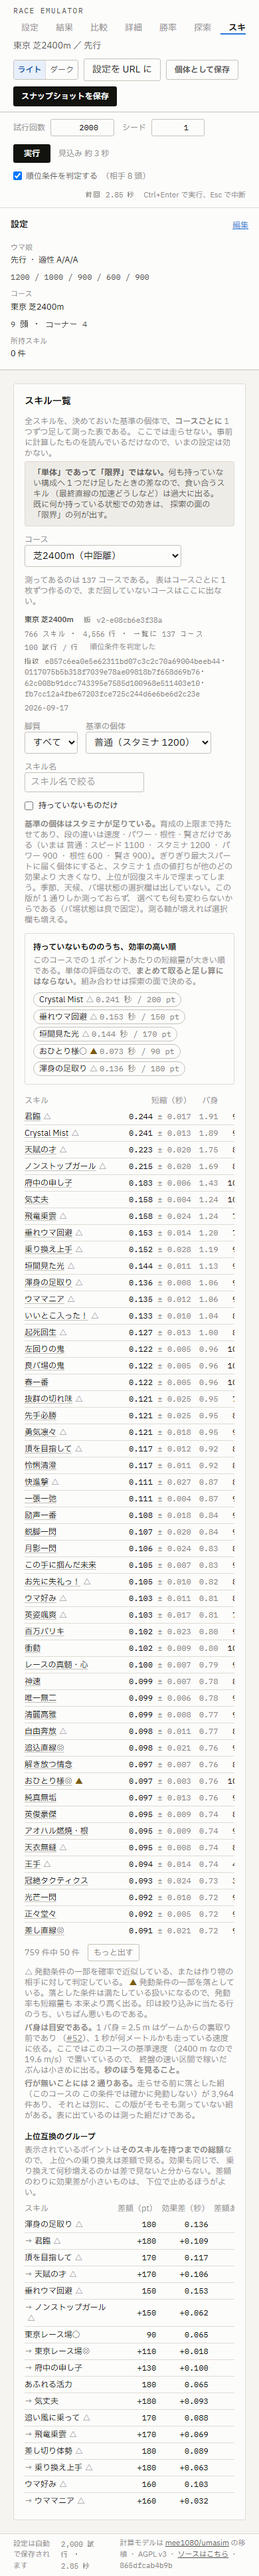
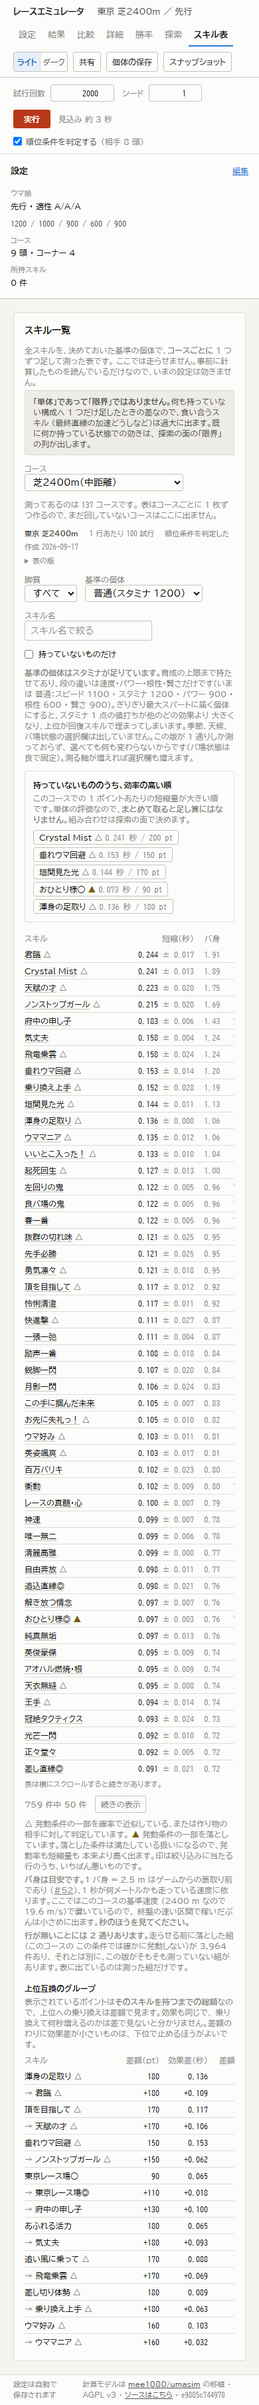
fix: 幅 390px のヘッダ・実行バー・表を詰め、設定の群を畳めるようにする
#104 の対応。

- ヘッダを 3 段に組む（題字といまの条件／タブ／テーマとボタン）。狭い幅では
  ボタンを短い名前にし、タブの余白を詰めて 7 つを収める。172px → 117px。
  読み上げは常に正式な名前にする（aria-label）
- 実行バーのキー操作の案内を、狭い幅では出さない。116px → 87px
- 横にスクロールする表は、実際にはみ出しているときだけ「表は横にスクロールすると
  続きがあります。」と書く（結果の面とスキル表）。影やグラデーションは使わない
- 「実行オプション」と「相手の想定」を畳めるようにする。狭い幅では畳んで、
  広い幅では開いて始める（docs/ui-gap.md 8 節「群の畳み込み」）
- 共有ボタンの大きさを、ヘッダのほかのボタンにそろえる
- e2e が撮り直した狭い幅の画像 2 枚を差し替える

Closes #104

diff --git a/apps/web/src/components/Inputs.tsx b/apps/web/src/components/Inputs.tsx
@@ -1,4 +1,4 @@
-import { useMemo, useState } from 'react';
+import { useEffect, useMemo, useRef, useState } from 'react';
 import { FIT_RANKS, type Condition, type FitRank, type Style } from '../../../../packages/sim/src/data/constants.ts';
 import { getSlope, type TrackDetail } from '../../../../packages/sim/src/data/track.ts';
 import {
@@ -176,15 +176,79 @@ export function CancelButton({ className = 'text-sm' }: { className?: string }) 
   );
 }
 
+/**
+ * 横にスクロールする表の入れ物。はみ出しているときだけ、その旨を下に書く。
+ *
+ * 狭い幅では表の右側が切れて見え、続きがあることが分からなかった（#104、UI 診断 第3節 B-5）。
+ * 影やグラデーションで示す手もあるが、禁止リストが影を控えるよう求めているので文字で書く。
+ */
+export function HorizontalScroll({ className = '', children }: { className?: string; children: React.ReactNode }) {
+  const ref = useRef<HTMLDivElement>(null);
+  const [overflowing, setOverflowing] = useState(false);
+  useEffect(() => {
+    const element = ref.current;
+    if (element === null) return;
+    const check = () => setOverflowing(element.scrollWidth > element.clientWidth + 1);
+    check();
+    const observer = new ResizeObserver(check);
+    observer.observe(element);
+    return () => observer.disconnect();
+  }, []);
+  return (
+    <>
+      <div ref={ref} className={`overflow-x-auto ${className}`}>
+        {children}
+      </div>
+      {overflowing && <p className="mt-1 text-[11px] text-ink3">表は横にスクロールすると続きがあります。</p>}
+    </>
+  );
+}
+
 export function Panel({
   title,
   variant = 'card',
+  collapsible = false,
+  summary,
   children,
 }: {
   title: string;
   variant?: 'card' | 'plain';
+  /**
+   * 見出しを押して畳めるようにする（線の区切りのときだけ）。広い幅では開いて、
+   * 狭い幅では畳んで始める。狭い幅で設定の群を全部開いたまま積むと、下の群に
+   * たどり着くまでが長い（#104、docs/ui-gap.md 8 節「群の畳み込み」）。
+   */
+  collapsible?: boolean;
+  /** 畳んだときも見出しの右に出す要約 */
+  summary?: React.ReactNode;
   children: React.ReactNode;
 }) {
+  const [initiallyOpen] = useState(
+    () => typeof window === 'undefined' || window.matchMedia('(min-width: 768px)').matches,
+  );
+  if (variant === 'plain' && collapsible) {
+    return (
+      <details className="group flex flex-col" open={initiallyOpen}>
+        <summary className="flex h-[34px] cursor-pointer list-none items-center gap-1.5 border-b border-rule [&::-webkit-details-marker]:hidden">
+          <svg
+            width="12"
+            height="12"
+            viewBox="0 0 16 16"
+            fill="none"
+            stroke="currentColor"
+            strokeWidth="1.6"
+            className="flex-none text-ink2 group-open:rotate-90"
+            aria-hidden="true"
+          >
+            <path d="M6.5 4 10.5 8 6.5 12" />
+          </svg>
+          <h2 className="text-[13px] font-bold">{title}</h2>
+          {summary !== undefined && <span className="ml-auto text-[11px] text-ink3">{summary}</span>}
+        </summary>
+        <div className="flex flex-col gap-2.5 pt-2.5">{children}</div>
+      </details>
+    );
+  }
   if (variant === 'plain') {
     return (
       <section className="flex flex-col gap-2.5">
@@ -707,7 +771,7 @@ export function OptionsInput() {
   const debuffTotal = Object.values(debuffCounts).reduce((a, b) => a + b, 0);
 
   return (
-    <Panel title="実行オプション" variant="plain">
+    <Panel title="実行オプション" variant="plain" collapsible summary={`デバフ ${debuffTotal} 個`}>
       <div className="grid grid-cols-1 gap-3 sm:grid-cols-2">
         <Field label="スキル発動率">
           <select
@@ -817,7 +881,7 @@ export function OpponentInput() {
   ];
 
   return (
-    <Panel title="相手の想定" variant="plain">
+    <Panel title="相手の想定" variant="plain" collapsible>
       {!useField && (
         <p className="text-xs text-ink3">
           順位条件を判定していないので、ここの設定は結果に効きません。実行バーの
@@ -956,7 +1020,8 @@ export function RunPanel() {
         順位条件を判定する
         <span className="text-ink3">（相手 {gateCount - 1} 頭）</span>
       </label>
-      <span className="ml-auto text-[11px] text-ink3">
+      {/* キー操作の案内は、キーボードの無い狭い幅では出さない（#104） */}
+      <span className="ml-auto hidden text-[11px] text-ink3 md:inline">
         {/* 前回の所要時間は結果の見出しにある。ここでは実行前の見込みだけを出す */}
         Ctrl+Enter で実行、Esc で中断
       </span>

diff --git a/apps/web/src/components/Shell.tsx b/apps/web/src/components/Shell.tsx
@@ -57,7 +57,7 @@ function ThemeToggle() {
           type="button"
           aria-pressed={theme === value}
           onClick={() => setTheme(value)}
-          className={`flex w-12 items-center justify-center border-r border-rule text-xs last:border-r-0 ${
+          className={`flex w-10 items-center justify-center border-r border-rule text-xs last:border-r-0 md:w-12 ${
             theme === value ? 'bg-acc-tint font-bold text-acc-ink' : 'bg-surface text-ink2'
           }`}
         >
@@ -82,11 +82,13 @@ function SaveSnapshotButton() {
     <button
       type="button"
       // 朱は計算を走らせるボタンだけに使う（DESIGN.md 3 節）。ヘッダの保存は脇の操作なので線の枠にする
-      className="h-[30px] rounded-sm border border-rule2 px-3 text-xs font-bold text-ink2 disabled:opacity-40"
+      aria-label="スナップショットを保存"
+      className="h-[30px] rounded-sm border border-rule2 px-2 text-xs font-bold text-ink2 disabled:opacity-40 md:px-3"
       onClick={saveSnapshot}
       disabled={summary === null}
     >
-      スナップショットを保存
+      <span className="md:hidden">スナップショット</span>
+      <span className="hidden md:inline">スナップショットを保存</span>
     </button>
   );
 }
@@ -133,18 +135,30 @@ function SaveIndividualButton() {
     <div className="flex items-center gap-2">
       <button
         type="button"
-        className="h-[30px] rounded-sm border border-rule2 px-3 text-xs font-bold text-ink2 disabled:opacity-40"
+        aria-label="個体として保存"
+        className="h-[30px] rounded-sm border border-rule2 px-2 text-xs font-bold text-ink2 disabled:opacity-40 md:px-3"
         onClick={() => void save()}
         disabled={saving}
       >
-        {saving ? '保存中…' : '個体として保存'}
+        {saving ? (
+          '保存中…'
+        ) : (
+          <>
+            <span className="md:hidden">個体の保存</span>
+            <span className="hidden md:inline">個体として保存</span>
+          </>
+        )}
       </button>
       {message !== null && <span className="text-[11px] text-ink3">{message}</span>}
     </div>
   );
 }
 
-/** モックは 1440px しか描いていない。狭い幅では折り返して縦に伸ばす。 */
+/**
+ * モックは 1440px しか描いていない。狭い幅では 3 段に組む（#104）。
+ * 1 段目に題字といまの条件、2 段目にタブ、3 段目にテーマとボタン。
+ * 以前は 4〜5 段に折り返して 172px あり、タブも右端で切れていた。
+ */
 export function Header() {
   const tab = useStore((s) => s.tab);
   const setTab = useStore((s) => s.setTab);
@@ -158,15 +172,18 @@ export function Header() {
         字間で組んでいた（docs/ui-audit-race-emulator.md 第1節「等幅」「欧文スタイル」）。
       */}
       <h1 className="whitespace-nowrap text-[13px] font-bold text-ink">レースエミュレータ</h1>
-      {/* タブが増えると狭い幅では収まらないので、はみ出すぶんは横に送る */}
-      <nav className="flex min-w-0 max-w-full gap-0.5 self-stretch overflow-x-auto" aria-label="画面">
+      {/* 狭い幅でも 7 つが収まるよう、左右の余白を詰める。それでも収まらない幅では横に送る */}
+      <nav
+        className="order-3 flex min-w-0 max-w-full basis-full gap-0.5 self-stretch overflow-x-auto md:order-none md:basis-auto"
+        aria-label="画面"
+      >
         {TABS.map(({ id, label }) => (
           <button
             key={id}
             type="button"
             aria-current={tab === id ? 'page' : undefined}
             onClick={() => setTab(id)}
-            className={`flex flex-none items-center px-3 text-[13px] ${
+            className={`flex h-[34px] flex-none items-center px-2 text-[13px] md:h-auto md:px-3 ${
               tab === id ? 'font-bold text-ink shadow-[inset_0_-2px_0_var(--color-s1)]' : 'text-ink3'
             }`}
           >
@@ -175,11 +192,11 @@ export function Header() {
         ))}
       </nav>
       {/* 狭い幅ではタブが折り返すので、この行も折り返せるようにしておく */}
-      <div className="flex min-w-0 flex-1 flex-wrap items-center gap-2">
+      <div className="order-2 flex min-w-0 flex-1 items-center gap-2 md:order-none">
         <span className="truncate text-[13px] text-ink2">{condition}</span>
         {summary === null && <span className="flex-none text-[11px] text-ink3">未実行</span>}
       </div>
-      <div className="flex flex-wrap items-center gap-2 md:flex-none md:flex-nowrap">
+      <div className="order-4 flex w-full items-center gap-2 md:order-none md:w-auto md:flex-none">
         <ThemeToggle />
         <ShareButton />
         <SaveIndividualButton />

diff --git a/apps/web/src/components/Summary.tsx b/apps/web/src/components/Summary.tsx
@@ -9,7 +9,7 @@ import {
 } from '../store.ts';
 import { TimeHistogram } from './Charts.tsx';
 import { FidelityLegend, FidelityMark } from './Fidelity.tsx';
-import { Panel } from './Inputs.tsx';
+import { HorizontalScroll, Panel } from './Inputs.tsx';
 
 function percent(value: number): string {
   return Number.isFinite(value) ? `${(value * 100).toFixed(1)} %` : '-';
@@ -244,7 +244,7 @@ export function SummaryOutput() {
               {bandRunning ? '測定中' : '相手の強さによる幅の測定'}
             </button>
           </div>
-          <div className="mt-2 overflow-x-auto">
+          <HorizontalScroll className="mt-2">
             <table data-testid="skill-table" className="w-full min-w-[36rem] text-sm">
               <thead>
                 <tr className="border-b border-rule text-xs text-ink3">
@@ -324,7 +324,7 @@ export function SummaryOutput() {
                 })}
               </tbody>
             </table>
-          </div>
+          </HorizontalScroll>
           {/* 印の意味。発動率をどこまで信じてよいかの話なので、表のすぐ下に置く。 */}
           <div className="mt-2">
             <FidelityLegend useField={useField} />

diff --git a/apps/web/src/components/SkillList.tsx b/apps/web/src/components/SkillList.tsx
@@ -28,7 +28,7 @@ import {
 } from '../skillList.ts';
 import { gameData, useStore } from '../store.ts';
 import { PlainFidelityMark } from './Fidelity.tsx';
-import { Panel } from './Inputs.tsx';
+import { HorizontalScroll, Panel } from './Inputs.tsx';
 
 /**
  * スキル一覧の面（[#83](https://github.com/promodeler314-a11y/raceemu/issues/83)）。
@@ -402,7 +402,7 @@ function SkillListTable({ file, index }: { file: SkillListCourseFile; index: Ski
 
       {recommended.length > 0 && <Recommend rows={recommended} onPick={addAndSolve} />}
 
-      <div className="mt-4 overflow-x-auto">
+      <HorizontalScroll className="mt-4">
         <table className="w-full min-w-[34rem] text-xs" data-testid="skill-list-table">
           <thead className="text-ink3">
             <tr>
@@ -472,7 +472,7 @@ function SkillListTable({ file, index }: { file: SkillListCourseFile; index: Ski
             ))}
           </tbody>
         </table>
-      </div>
+      </HorizontalScroll>
 
       <div className="mt-2 flex flex-wrap items-center gap-3 text-xs text-ink3">
         <span data-testid="skill-list-count">

diff --git a/apps/web/src/components/Compare.tsx b/apps/web/src/components/Compare.tsx
@@ -391,7 +391,9 @@ export function ShareButton() {
   return (
     <button
       type="button"
-      className="rounded-sm border border-rule2 px-3 py-1.5 text-sm"
+      // 狭い幅では短い名前にする（#104）。読み上げは常に正式な名前
+      aria-label="共有 URL のコピー"
+      className="h-[30px] rounded-sm border border-rule2 px-2 text-xs font-bold text-ink2 md:px-3"
       onClick={() => {
         const url = shareUrl();
         history.replaceState(null, '', url);
@@ -404,7 +406,14 @@ export function ShareButton() {
         );
       }}
     >
-      {copied ? 'コピー済み' : '共有 URL のコピー'}
+      {copied ? (
+        'コピー済み'
+      ) : (
+        <>
+          <span className="md:hidden">共有</span>
+          <span className="hidden md:inline">共有 URL のコピー</span>
+        </>
+      )}
     </button>
   );
 }

diff --git a/docs/ui-gap.md b/docs/ui-gap.md
@@ -213,7 +213,7 @@
 | 項目 | モック | 実装 | 対応 |
 | --- | --- | --- | --- |
 | 実行バーの位置 | ヘッダの直下。設定の列より**先** | 設定の列より先に置き、スクロールしても上に貼り付く（[m4-mobile.png](images/m4-mobile.png)）。以前は `<main>` の中にあり、設定の列が高さを取り切って `<main>` の高さが 0 になり、**設定の面からは実行できなかった** | 済み |
-| 群の畳み込み | デバフ・実行オプション・相手の想定は畳んだ見出しだけ | 全部開いたまま積む | 実装を寄せる |
+| 群の畳み込み | デバフ・実行オプション・相手の想定は畳んだ見出しだけ | 「実行オプション」（デバフを含む）と「相手の想定」を畳める。狭い幅では畳んで、広い幅では開いて始まる | 済み（[#104](https://github.com/promodeler314-a11y/raceemu/issues/104)） |
 | フッタ | 折り返すが、区切り（・）の位置でしか折らない | 語の途中で折れる（「設定は自動保存され／ます」） | 実装を寄せる |
 | ステータスの並び | 2 列 | 2 列 | 済み |
 
